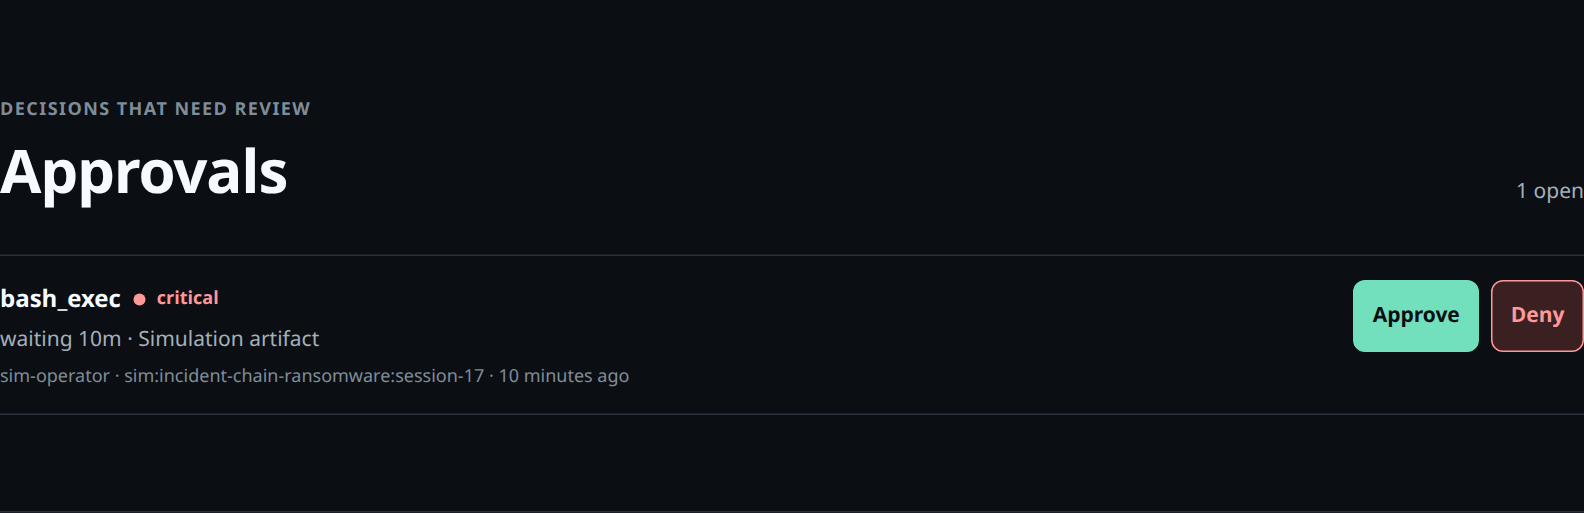
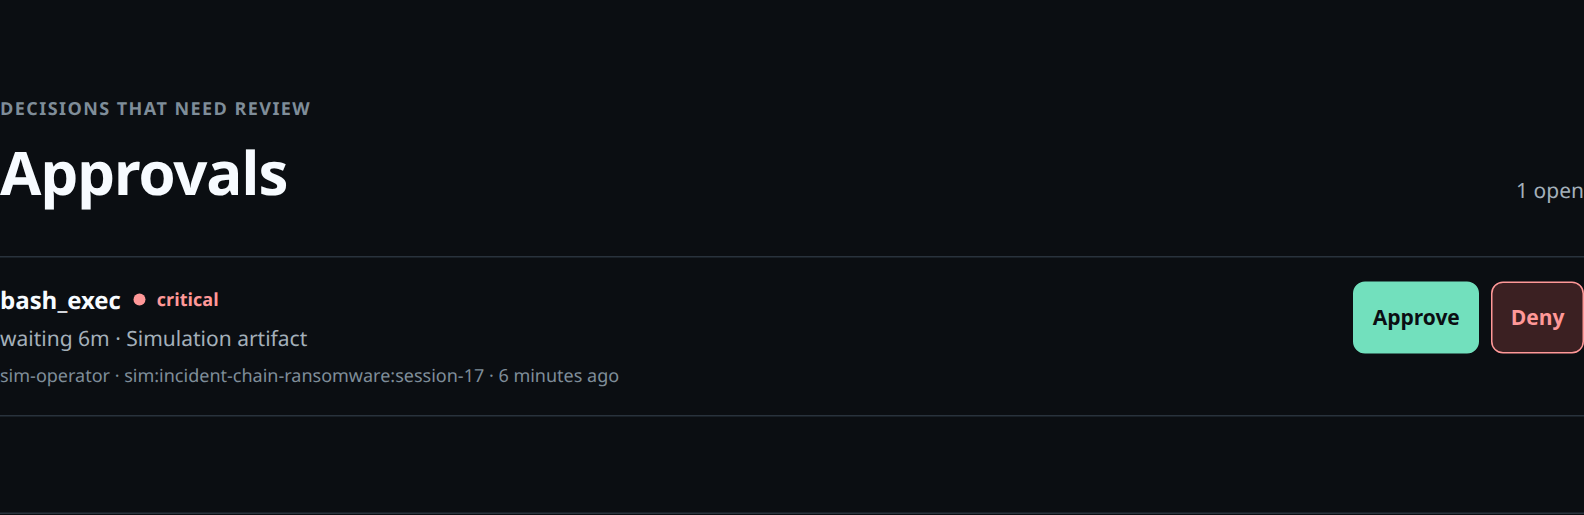
fix: hide inactive console states in product captures

diff --git a/tests/public-console.test.ts b/tests/public-console.test.ts
@@ -70,6 +70,10 @@ describe("public operator console contract", () => {
     }
   });
 
+  it("keeps hidden console states out of layout", () => {
+    expect(styles).toContain("[hidden] { display: none !important; }");
+  });
+
   it("defines small-screen, focus, and reduced-motion states", () => {
     expect(styles).toContain("@media (max-width: 599px)");
     expect(styles).toContain(":focus-visible");

diff --git a/public/styles.css b/public/styles.css
@@ -61,6 +61,7 @@
 }
 
 * { box-sizing: border-box; }
+[hidden] { display: none !important; }
 html { scroll-behavior: smooth; scroll-padding-top: var(--space-4); }
 body {
   min-width: 20rem;
